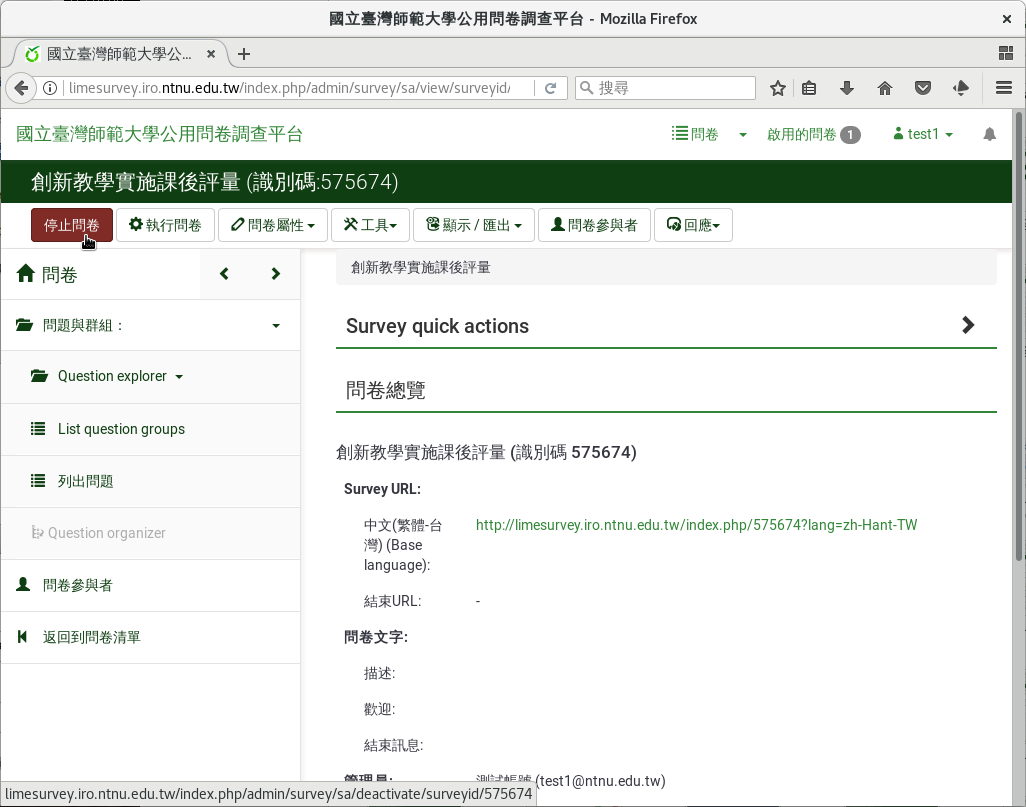
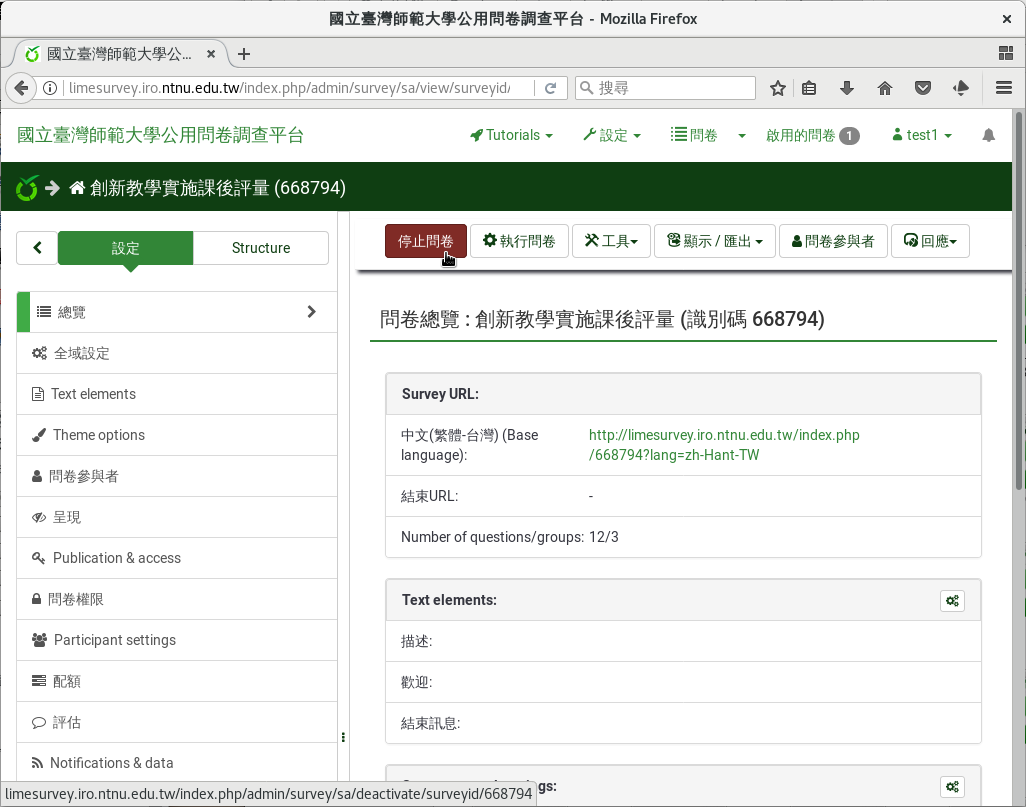
* Updated for LimeSurvey 3 for Chapter 4.

diff --git a/04-03-01-participants.rst b/04-03-01-participants.rst
@@ -1,10 +1,16 @@
 填答者名單
 ##########
 
-建立封閉式問卷後，下一步要建立填答者名單。從問卷左側選單「問卷參與者」
-進入後，點選上方選單「顯示參與者」。
+建立封閉式問卷後，下一步要建立填答者名單。從問卷左側欄「設定」分頁下，
+「問卷參與者」進入後，點選上方選單「顯示參與者」。
 
 .. figure:: images/04-03-01-participants-01.png
+    :alt: 左側欄「設定」裏的「問卷參與者」
+    :scale: 60%
+
+    左側欄「設定」裏的「問卷參與者」
+
+.. figure:: images/04-03-01-participants-02.png
     :alt: 點選「顯示參與者」
     :scale: 60%
 
@@ -12,7 +18,7 @@
 
 目前名單還是空的。從左上角按下「建立」，可以增添新的填答者。
 
-.. figure:: images/04-03-01-participants-02.png
+.. figure:: images/04-03-01-participants-03.png
     :alt: 點選「建立」加上新的填答者
     :scale: 60%
 
@@ -20,17 +26,18 @@
 
 點「加入參與者」，就可以一筆一筆輸入填答者資料。
 
-.. figure:: images/04-03-01-participants-03.png
+.. figure:: images/04-03-01-participants-04.png
     :alt: 選「建立」「加入參與者」輸入填答者資料
     :scale: 60%
 
     選「建立」「加入參與者」輸入填答者資料
 
-填上First name（姓）、Last name（名）和Email郵件信箱，按右上角「儲存」
+填上First name（姓）、Last name（名）和郵件信箱，按右上角「儲存」
 即可。Token（ :index:`邀請碼 <邀請碼; 填寫>` ）可留白，系統自動產生亂
-數邀請碼。也可以使用身份證字號、學號等對方容易記憶的邀請碼，只要不重複即可。
+數邀請碼。也可以使用身份證字號、學號等對方容易記憶的邀請碼，
+只要不重複即可。
 
-.. figure:: images/04-03-01-participants-04.png
+.. figure:: images/04-03-01-participants-05.png
     :alt: 輸入填答者資料
     :scale: 60%
 
@@ -38,7 +45,7 @@
 
 點「CSV檔案」，可從CSV檔整批匯入填答者名單。
 
-.. figure:: images/04-03-01-participants-05.png
+.. figure:: images/04-03-01-participants-06.png
     :alt: 選「建立」「CSV檔案」從CSV檔匯入填答者名單
     :scale: 60%
 
@@ -51,7 +58,7 @@ CSV檔欄位如下：
 - email（郵件信箱）
 - （選填）token（邀請碼）
 
-.. figure:: images/04-03-01-participants-06.png
+.. figure:: images/04-03-01-participants-07.png
     :alt: 選「建立」「CSV檔案」從CSV檔匯入填答者名單
     :scale: 60%
 
@@ -59,7 +66,7 @@ CSV檔欄位如下：
 
 可以參閱 `填答者CSV檔的範例 <http://limesurvey.iro.ntnu.edu.tw/learning/participants-example.csv>`_ 。
 
-.. figure:: images/04-03-01-participants-07.png
+.. figure:: images/04-03-01-participants-08.png
     :alt: 填答者CSV檔範例
     :scale: 60%
 

diff --git a/04-04-stop.rst b/04-04-stop.rst
@@ -4,7 +4,7 @@
 為避免有人在施測時間外上來填答，破壞問卷的有效性，預定施測時間結束後，
 我們會 :index:`停止問卷 <問卷; 停測>` 。
 
-按左上方的「停止問卷」，即可結束問卷。
+按上方的「停止問卷」，即可結束問卷。
 
 .. figure:: images/04-04-stop-01.png
     :alt: 點選「停止問卷」
@@ -12,7 +12,7 @@
 
     點選「停止問卷」
 
-結束有兩種方式：「問卷到期」和「關閉問卷」。若不知道該如何選擇，點左邊
+結束有兩種方式：「問卷到期」和「關閉問卷」。若不知道該如何選擇，選左邊
 的「到期問卷」即可。
 
 .. figure:: images/04-04-stop-02.png
@@ -35,8 +35,8 @@
 關閉問卷
 ########
 
-:index:`關閉問卷 <問卷; 關閉>` ，適用於發現問卷有錯誤，要重新改正重新
-施測的施測中止。
+:index:`關閉問卷 <問卷; 關閉>` ，適用於發現問卷有錯誤，修正問卷後，
+重新施測的施測中止。
 
 關閉後，可以重新增刪題目，再重開問卷施測。
 

diff --git a/04-03-closed.rst b/04-03-closed.rst
@@ -12,8 +12,8 @@
 封閉式問卷需要額外設定填答者名單。名單上的填答者，需有
 :index:`邀請碼 <邀請碼>` 才可填答。每個填答者的邀請碼各自不同。
 
-啟用問卷後，詢問是否要封閉式問卷時，按左下角的「切換至封閉問卷模式」即
-可。
+啟用問卷後，詢問是否要封閉式問卷時，按左下角的「切換至封閉問卷模式」
+即可。
 
 .. figure:: images/04-03-close-01.png
     :alt: 選擇封閉式問卷
@@ -21,14 +21,14 @@
 
     選擇封閉式問卷
 
-詢問是否要建立填答者名單表時，請點選左下角「Initialise participant
-table」。
+詢問是否要開新空白填答者名單時，請點選左下角
+「Initialise participant table」。
 
 .. figure:: images/04-03-close-02.png
-    :alt: 初始化填答者名單
+    :alt: 開新空白填答者名單
     :scale: 60%
 
-    初始化填答者名單
+    開新空白填答者名單
 
 
 .. toctree::

diff --git a/04-03-02-messages.rst b/04-03-02-messages.rst
@@ -2,7 +2,7 @@
 ########
 
 建立填答者名單後，我們要發送 :index:`邀請碼 <邀請碼; 發送>` 給填答者，
-請填答者上網填問卷。由問卷左邊選單「問卷參與者」點進去，右上方
+請填答者上網填問卷。由左側欄設定選單的「問卷參與者」點進去，右上方
 「Invitations & reminders」下的「發送郵件邀請」進入。
 
 .. figure:: images/04-03-02-message-01.png
@@ -19,7 +19,7 @@
 
     確認邀請郵件內容
 
-問卷結束前，我們要提醒還沒填答的人上來填問卷。由問卷左邊選單
+問卷結束前，我們要提醒還沒填答的人上來填問卷。由左側欄設定選單的
 「問卷參與者」點進去，右上方「Invitations & reminders」下的
 「發送郵件提醒」進入。
 

diff --git a/04-02-open.rst b/04-02-open.rst
@@ -31,7 +31,8 @@
 
     選擇開放式問卷
 
-問卷頁面中間的Survey URL，即為問卷網址。將問卷網址複製下來散發（Email、Facebook、LINE或紙本），連上網址的人，即可填答。
+問卷頁面中間的Survey URL，即為問卷網址。將問卷網址複製下來散發
+（Email、Facebook、LINE或紙本），連上網址的人，即可填答。
 
 .. figure:: images/04-02-open-02.png
     :alt: 開放式問卷的網址

diff --git a/04-01-activate.rst b/04-01-activate.rst
@@ -21,8 +21,8 @@
 
 問卷施測的方法有兩種：開放式問卷，和封閉式問卷。
 
-.. figure:: images/04-02-open-01.png
-    :alt: 選擇開放式或封閉式問卷
+.. figure:: images/04-01-activate-03.png
+    :alt: 封閉式問卷或開放式問卷
     :scale: 60%
 
-    選擇開放式或封閉式問卷
+    封閉式問卷或開放式問卷
